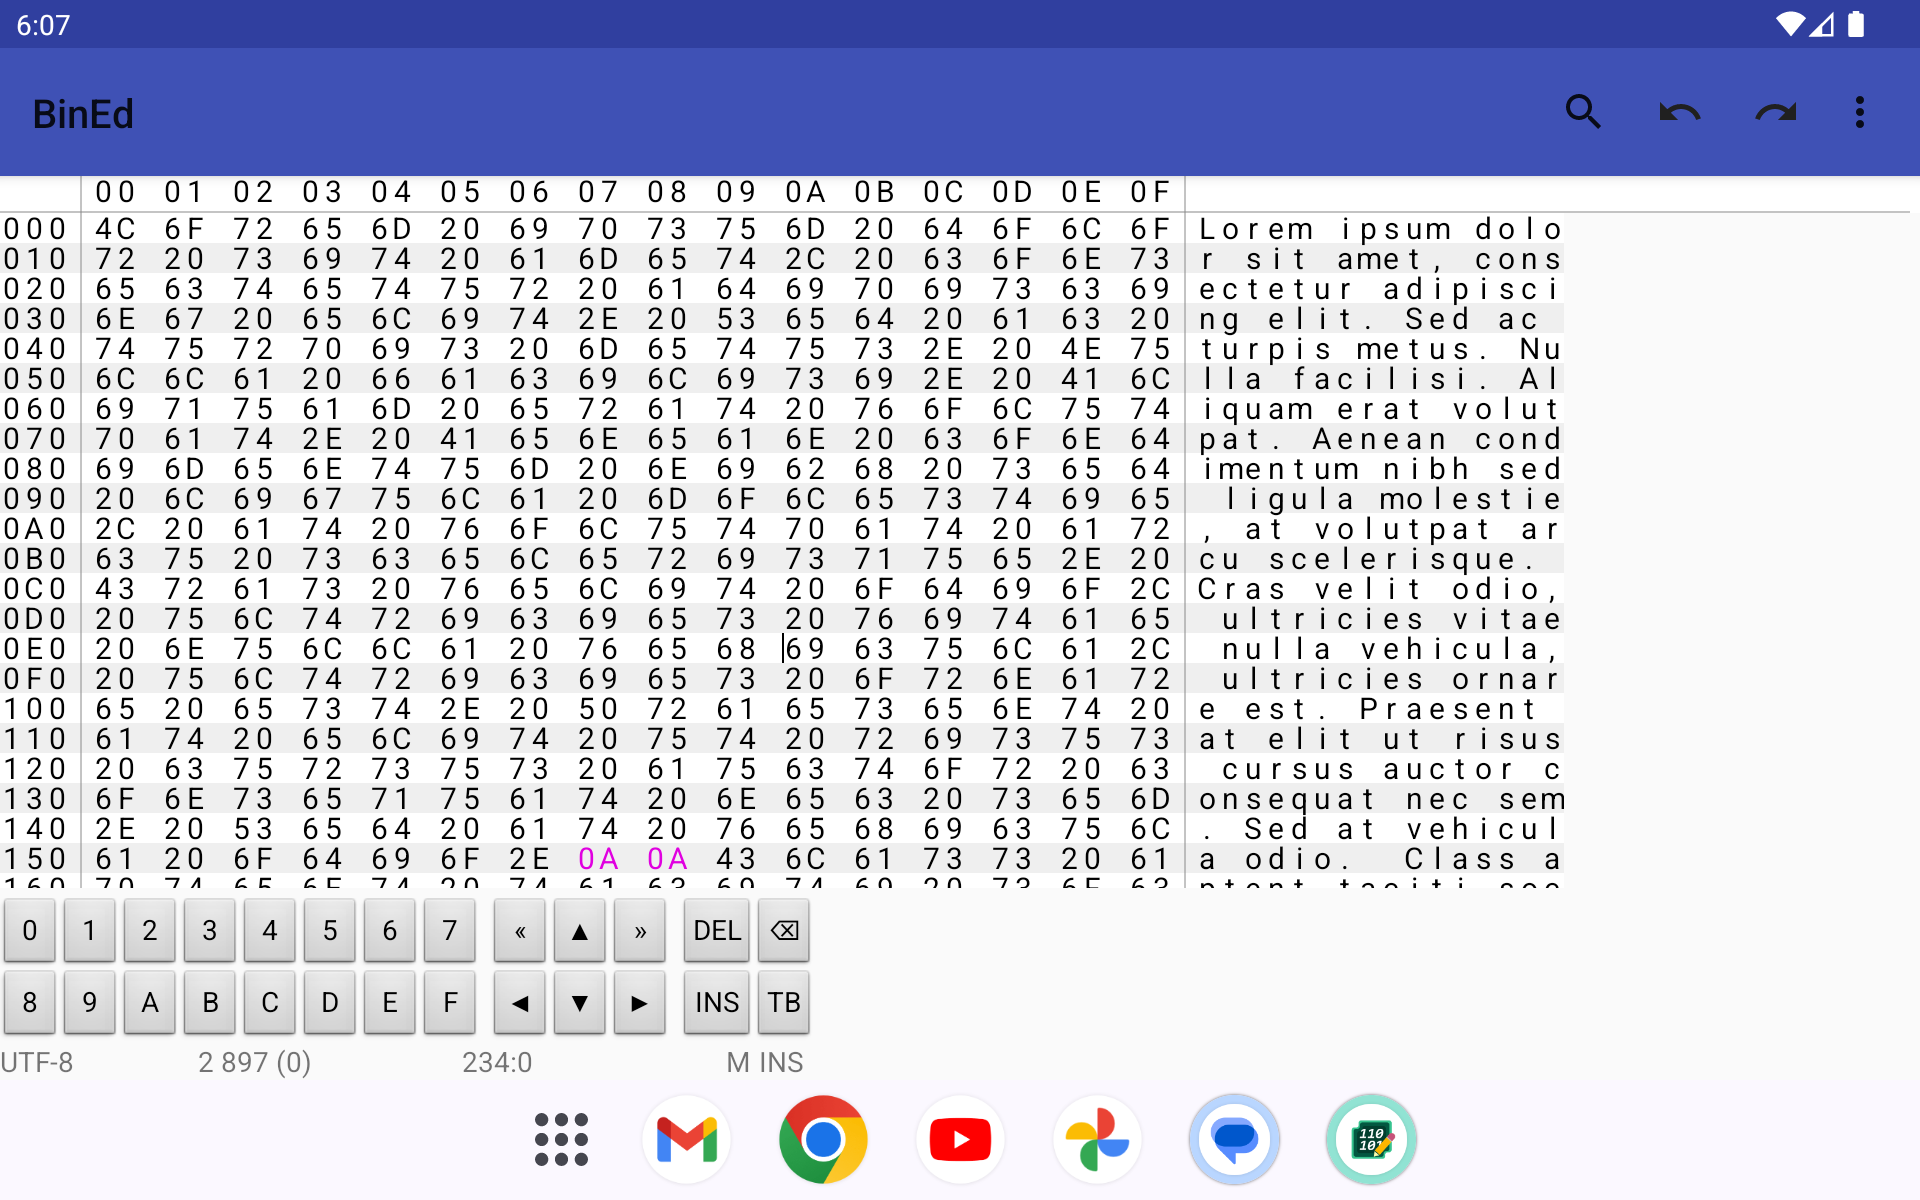
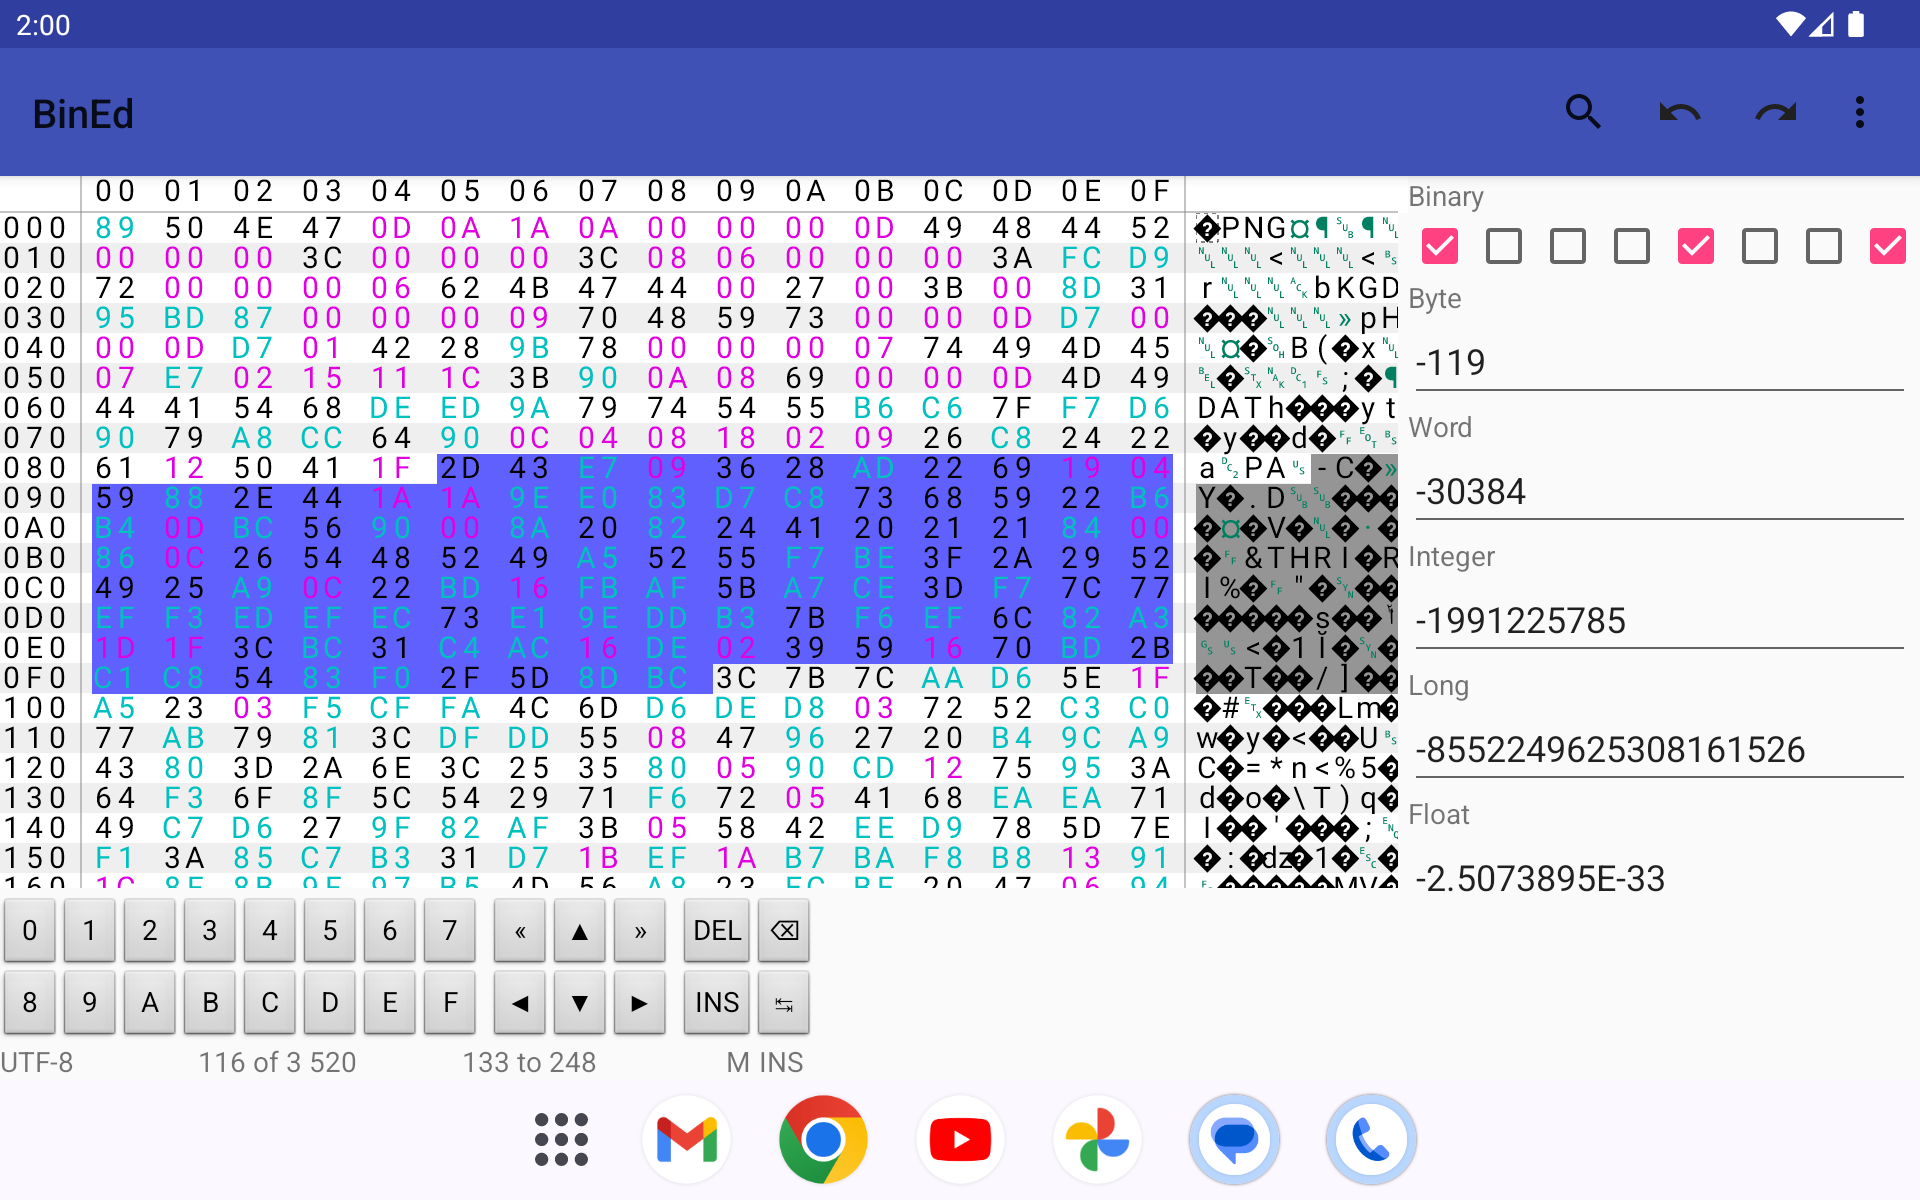
Basic data inspector - 6

diff --git a/app/src/main/java/org/exbin/bined/editor/android/MainActivity.java b/app/src/main/java/org/exbin/bined/editor/android/MainActivity.java
@@ -23,7 +23,6 @@ import android.content.Intent;
 import android.content.pm.PackageInfo;
 import android.content.pm.PackageManager;
 import android.content.res.Configuration;
-import android.graphics.Color;
 import android.net.Uri;
 import android.os.Build;
 import android.os.Bundle;
@@ -473,7 +472,7 @@ public class MainActivity extends AppCompatActivity implements FileDialog.OnFile
         EditorPreferences editorPreferences = appPreferences.getEditorPreferences();
         setupKeyPanel(editorPreferences.getKeysPanelMode());
         DataInspectorMode dataInspectorMode = editorPreferences.getDataInspectorMode();
-        boolean showDataInspector = dataInspectorMode == DataInspectorMode.SHOW || (dataInspectorMode == DataInspectorMode.HORIZONTAL && getResources().getConfiguration().orientation == Configuration.ORIENTATION_LANDSCAPE);
+        boolean showDataInspector = dataInspectorMode == DataInspectorMode.SHOW || (dataInspectorMode == DataInspectorMode.LANDSCAPE && getResources().getConfiguration().orientation == Configuration.ORIENTATION_LANDSCAPE);
         if (showDataInspector != dataInspectorShown) {
             LinearLayout mainHorizontalLayout = findViewById(R.id.mainHorizontalLayout);
             if (showDataInspector) {
@@ -487,7 +486,7 @@ public class MainActivity extends AppCompatActivity implements FileDialog.OnFile
             dataInspectorShown = showDataInspector;
         }
 
-        boolean isDarkMode = (getResources().getConfiguration().uiMode & Configuration.UI_MODE_NIGHT_MASK) > 0;
+        boolean isDarkMode = (getResources().getConfiguration().uiMode & Configuration.UI_MODE_NIGHT_YES) > 0;
         basicValuesPositionColorModifier.setDarkMode(isDarkMode);
 
         updateStatus();
@@ -1293,6 +1292,21 @@ public class MainActivity extends AppCompatActivity implements FileDialog.OnFile
 
         @Override
         public boolean onKey(View view, int keyCode, KeyEvent keyEvent) {
+            if (!codeArea.isFocused()) {
+                if (keyEvent.getAction() == KeyEvent.ACTION_UP) {
+                    if (keyEvent.getKeyCode() == KeyEvent.KEYCODE_BACK && isGoogleTV(codeArea.getContext())) {
+                        codeArea.post(codeArea::requestFocus);
+                        return true;
+                    }
+                }
+                View currentFocus = getCurrentFocus();
+                if (currentFocus != null) {
+                    return currentFocus.dispatchKeyEvent(keyEvent);
+                }
+
+                return false;
+            }
+
             try {
                 if (keyEvent.getAction() == KeyEvent.ACTION_DOWN) {
                     if (keyEvent.getKeyCode() == KeyEvent.KEYCODE_DEL || keyEvent.getKeyCode() == KeyEvent.KEYCODE_FORWARD_DEL) {
@@ -1308,7 +1322,7 @@ public class MainActivity extends AppCompatActivity implements FileDialog.OnFile
                         if (keyEvent.getEventTime() - keyEvent.getDownTime() > TimeUnit.SECONDS.toMillis(1)) {
                             codeArea.showContextMenu();
                         } else {
-                            View keyStripeView = findViewById(R.id.keyPanel);
+                            View keyStripeView = findViewById(R.id.button0);
                             keyStripeView.requestFocus();
                         }
                     } else if (keyEvent.getKeyCode() == KeyEvent.KEYCODE_BACK && isGoogleTV(codeArea.getContext())) {

diff --git a/app/libsrc/org/exbin/auxiliary/binary_data/delta/file/DeltaDataPageWindow.java b/app/libsrc/org/exbin/auxiliary/binary_data/delta/file/DeltaDataPageWindow.java
@@ -16,7 +16,6 @@
 package org.exbin.auxiliary.binary_data.delta.file;
 
 import java.io.IOException;
-import java.io.RandomAccessFile;
 import java.util.logging.Level;
 import java.util.logging.Logger;
 import javax.annotation.Nonnull;
@@ -50,23 +49,22 @@ public class DeltaDataPageWindow {
     private void loadPage(int index) {
         long pageIndex = dataPages[index].pageIndex;
         long pagePosition = pageIndex * PAGE_SIZE;
-        RandomAccessFile file = data.getAccessFile();
         try {
-            long fileLength = file.length();
+            long fileLength = data.getDataLength();
             byte[] page = dataPages[index].page;
             int offset = 0;
             int toRead = PAGE_SIZE;
             if (pagePosition + PAGE_SIZE > fileLength) {
                 toRead = (int) (fileLength - pagePosition);
             }
-            file.seek(pagePosition);
             while (toRead > 0) {
-                int red = file.read(page, offset, toRead);
+                int red = data.read(pagePosition, page, offset, toRead);
                 if (red == -1) {
                     throw new IOException("Unexpected read error ");
                 }
                 toRead -= red;
                 offset += red;
+                pagePosition += red;
             }
         } catch (IOException ex) {
             Logger.getLogger(DeltaDataPageWindow.class.getName()).log(Level.SEVERE, null, ex);

diff --git a/app/src/main/java/org/exbin/bined/editor/android/preference/EditorPreferences.java b/app/src/main/java/org/exbin/bined/editor/android/preference/EditorPreferences.java
@@ -122,7 +122,7 @@ public class EditorPreferences implements EditorOptions {
     @Nonnull
     @Override
     public DataInspectorMode getDataInspectorMode() {
-        DataInspectorMode defaultDataInspectorMode = DataInspectorMode.HIDE;
+        DataInspectorMode defaultDataInspectorMode = DataInspectorMode.LANDSCAPE;
         try {
             return DataInspectorMode.valueOf(preferences.get(PREFERENCES_DATA_INSPECTOR_MODE, defaultDataInspectorMode.name()).toUpperCase());
         } catch (IllegalArgumentException ex) {

diff --git a/app/src/main/java/org/exbin/bined/android/basic/color/BasicCodeAreaColorsProfile.java b/app/src/main/java/org/exbin/bined/android/basic/color/BasicCodeAreaColorsProfile.java
@@ -218,6 +218,6 @@ public class BasicCodeAreaColorsProfile implements CodeAreaColorsProfile {
     }
 
     private boolean isDarkMode() {
-        return context != null && (context.getResources().getConfiguration().uiMode & Configuration.UI_MODE_NIGHT_MASK) > 0;
+        return context != null && (context.getResources().getConfiguration().uiMode & Configuration.UI_MODE_NIGHT_YES) > 0;
     }
 }

diff --git a/app/src/main/java/org/exbin/bined/editor/android/options/DataInspectorMode.java b/app/src/main/java/org/exbin/bined/editor/android/options/DataInspectorMode.java
@@ -26,5 +26,5 @@ import javax.annotation.ParametersAreNonnullByDefault;
 public enum DataInspectorMode {
     HIDE,
     SHOW,
-    HORIZONTAL
+    LANDSCAPE
 }
